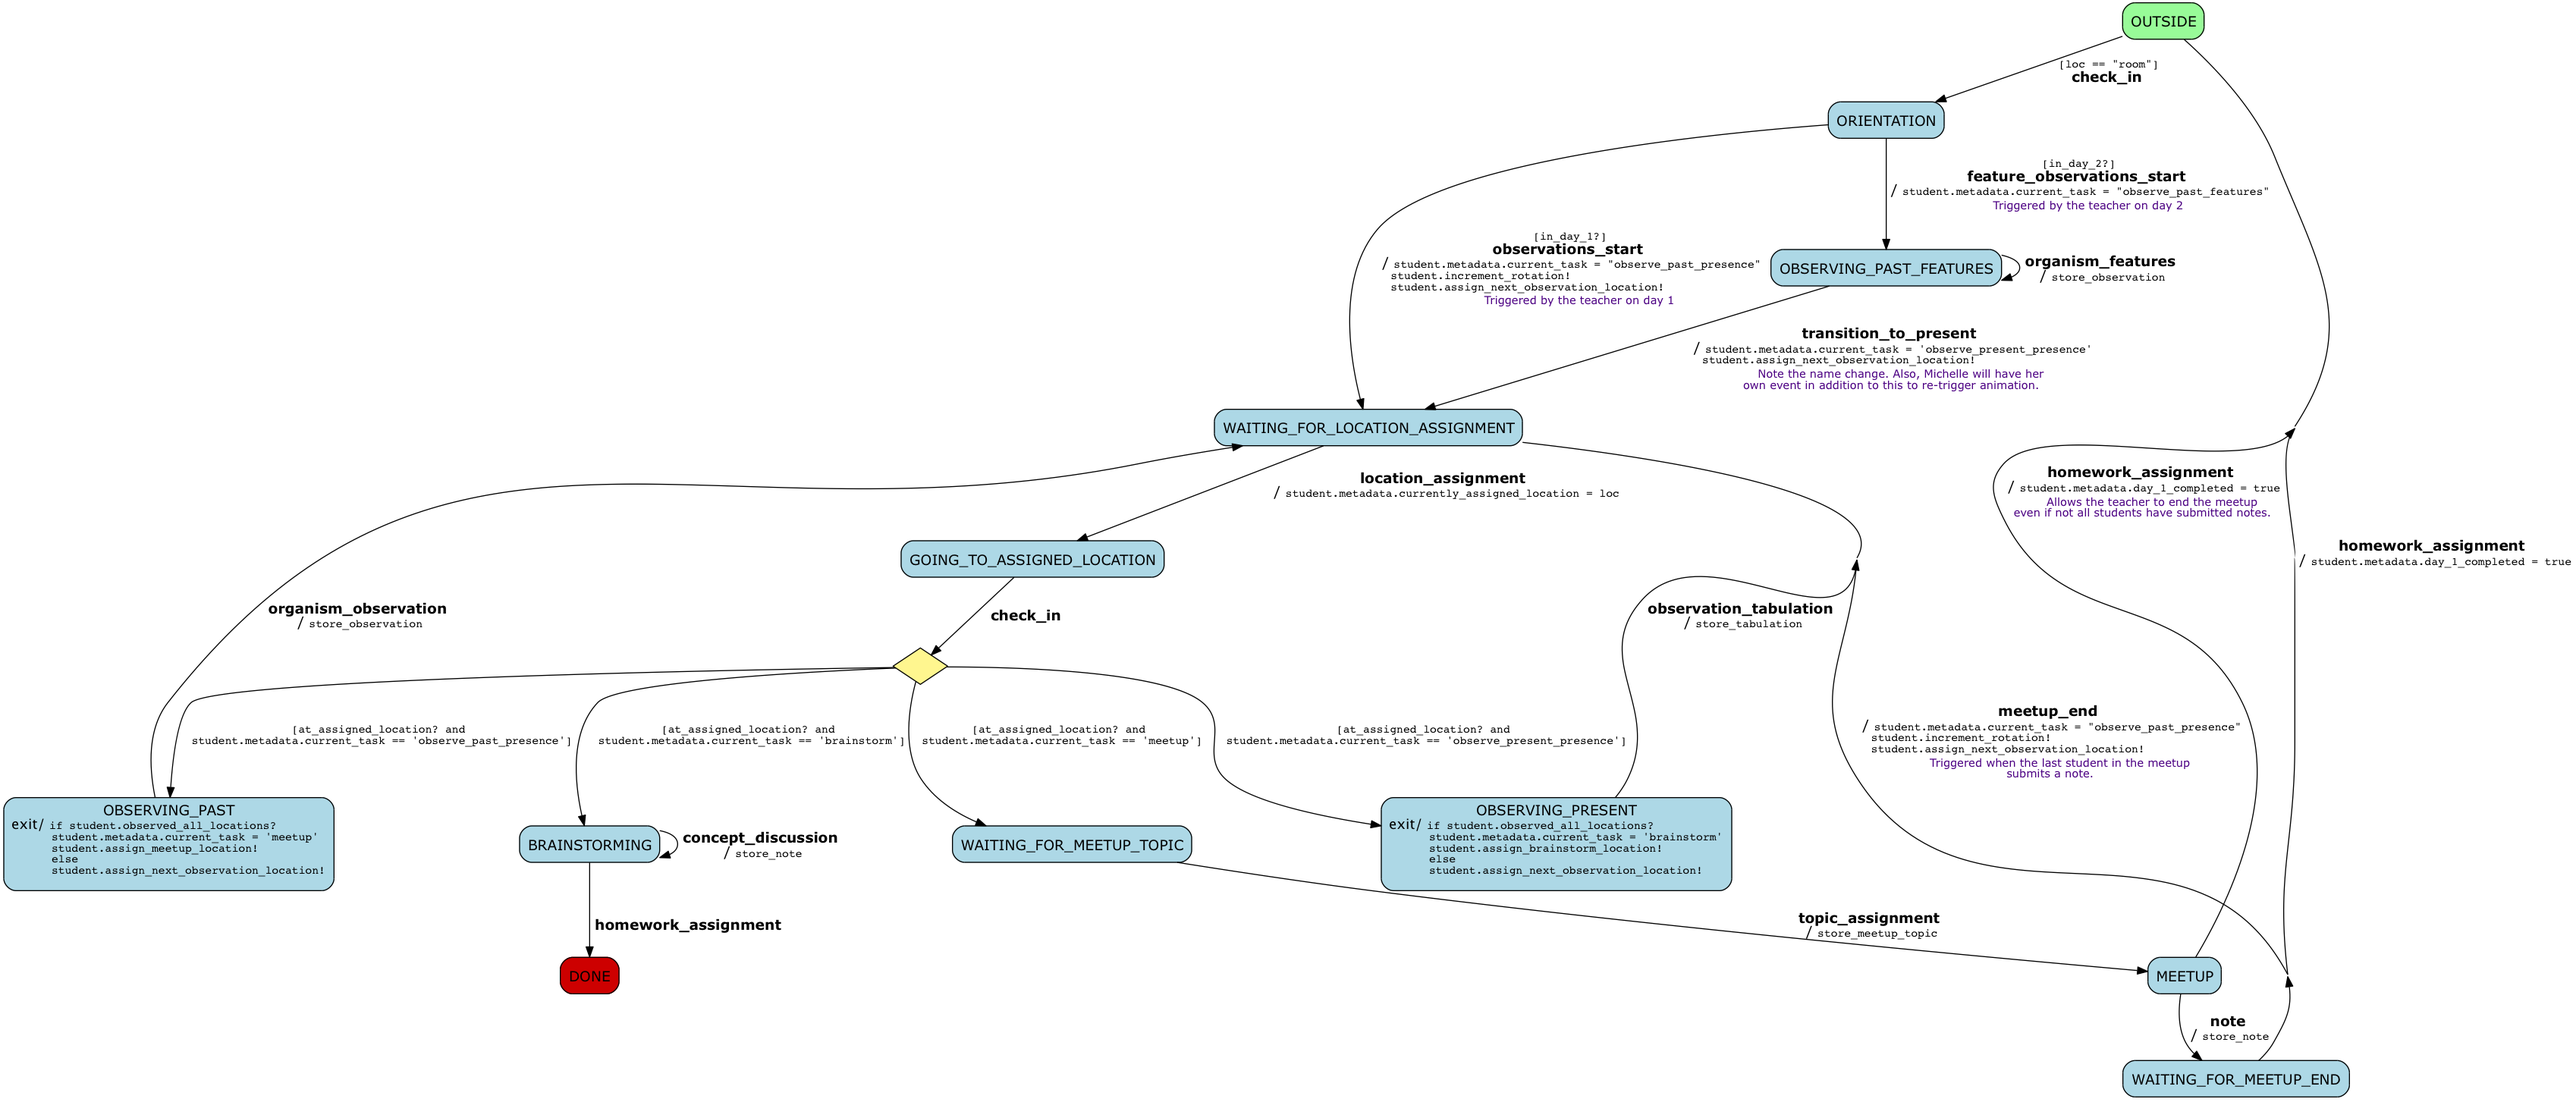
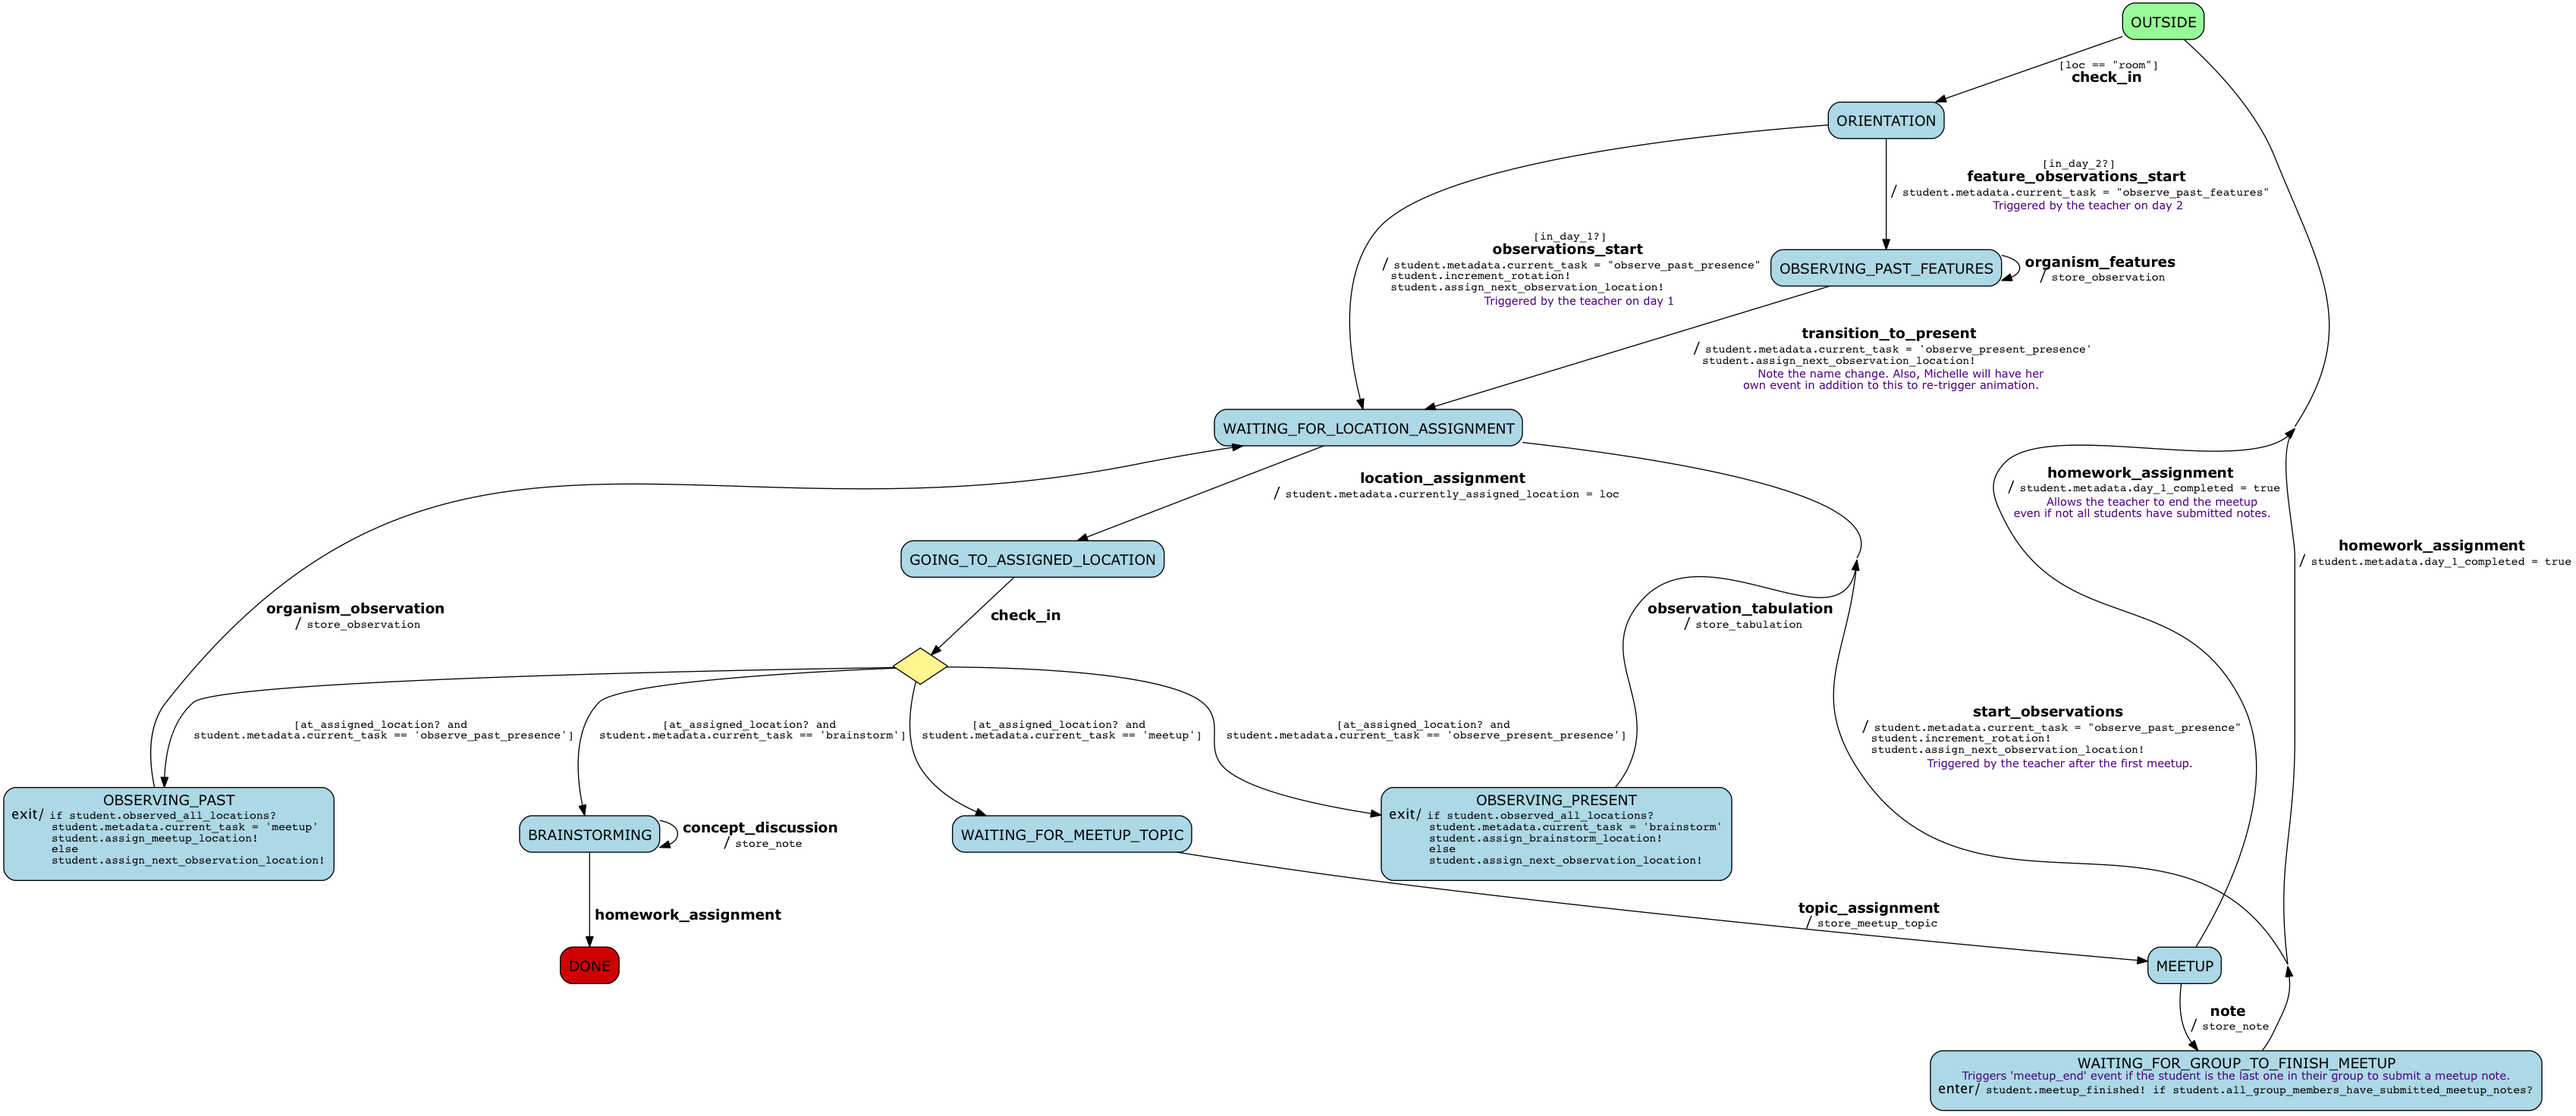
WAITING_FOR_MEETUP_END is now WAITING_FOR_GROUP_TO_FINISH_MEETUP

diff --git a/agents/model/student_statemachine.rb b/agents/model/student_statemachine.rb
@@ -88,7 +88,7 @@ StudentStatemachine = proc do
   end
   
   state :MEETUP do
-    on :note, :to => :WAITING_FOR_MEETUP_END, :action => :store_note
+    on :note, :to => :WAITING_FOR_GROUP_TO_FINISH_MEETUP, :action => :store_note
     on :homework_assignment do
       transition :to => :OUTSIDE do
         comment "Allows the teacher to end the meetup\neven if not all students have submitted notes."
@@ -99,9 +99,13 @@ StudentStatemachine = proc do
     end
   end
   
-  state :WAITING_FOR_MEETUP_END do
-    on :meetup_end, :to => :WAITING_FOR_LOCATION_ASSIGNMENT do
-      comment "Triggered when the last student in the meetup\nsubmits a note."
+  state :WAITING_FOR_GROUP_TO_FINISH_MEETUP do
+    comment "Triggers 'meetup_end' event if the student is the last one in their group to submit a meetup note."
+    enter do |student|
+      student.meetup_finished! if student.all_group_members_have_submitted_meetup_notes?
+    end
+    on :start_observations, :to => :WAITING_FOR_LOCATION_ASSIGNMENT do
+      comment "Triggered by the teacher after the first meetup."
       action do |student|
         student.metadata.current_task = "observe_past_presence"        
         student.increment_rotation!
